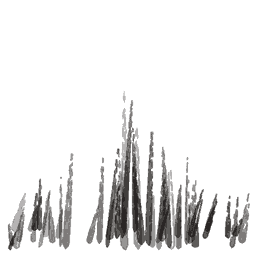
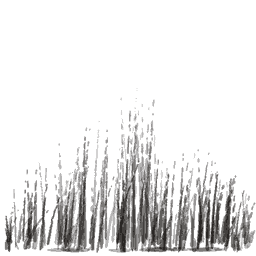
Godot take C4 F-05: grass as thin dry fibres with soft alpha and distance fade to pale grey

Changed region(s): [[0.0, 0.3438, 1.0, 1.0], [0.6875, 0.5938, 0.7188, 0.625], [0.5938, 0.375, 0.625, 0.4062]]

diff --git a/godot/tools/bake_fx.py b/godot/tools/bake_fx.py
@@ -71,19 +71,24 @@ def drips():
         c.render().save(f'{OUT}/speck{i}.png', optimize=True)
 
 def grass():
+    """Grass swath clumps: many thin dry-brush fibres, dense and dark at the root,
+    thinning to pale hairline tips (reference grass reads as grey fibre, not hedge)."""
     for i in range(3):
         c = Canvas(256, 2, seed=400 + i)
-        for k in range(46):
-            x = c.rng.uniform(10, 246); base = 250 - c.rng.uniform(0, 20)
-            hgt = c.rng.uniform(40, 150) * (1 - abs(x - 128) / 170)
-            lean = c.rng.normal(4, 6)
-            c.stroke([(x, base), (x + lean * 0.5, base - hgt * 0.5), (x + lean, base - hgt)], w=c.rng.uniform(2.5, 5), ink=c.rng.uniform(0.35, 0.8), dry=0.7, taper=(0.05, 0.7))
-        # soft ground wash at base
+        for k in range(150):
+            x = c.rng.uniform(6, 250); base = 252 - c.rng.uniform(0, 14)
+            hgt = c.rng.uniform(35, 175) * (1 - abs(x - 128) / 150) ** 0.7
+            if hgt < 12: continue
+            lean = c.rng.normal(5, 7)
+            c.stroke([(x, base), (x + lean * 0.35, base - hgt * 0.5), (x + lean, base - hgt)], w=c.rng.uniform(0.9, 2.1), ink=c.rng.uniform(0.25, 0.65), dry=0.85, taper=(0.02, 0.85))
+        for k in range(10):
+            x = c.rng.uniform(30, 226)
+            c.stroke([(x - 16, 250), (x + 16, 249)], w=2.4, ink=0.35, dry=0.8, taper=(0.3, 0.3))
         img = c.render()
         a = np.asarray(img, np.float32)
         yy = np.linspace(0, 1, 256)[:, None]
-        a[..., 3] *= np.clip(0.4 + yy * 0.9, 0, 1)
-        Image.fromarray(a.astype(np.uint8), 'RGBA').save(f'{OUT}/grass{i}.png', optimize=True)
+        a[..., 3] *= np.clip(0.35 + yy * 0.8, 0, 1)
+        Image.fromarray(a.astype(np.uint8), 'RGBA').quantize(colors=128, method=Image.Quantize.FASTOCTREE, dither=Image.Dither.NONE).save(f'{OUT}/grass{i}.png', optimize=True)
 
 def footprint():
     c = Canvas(64, 2, seed=500)
